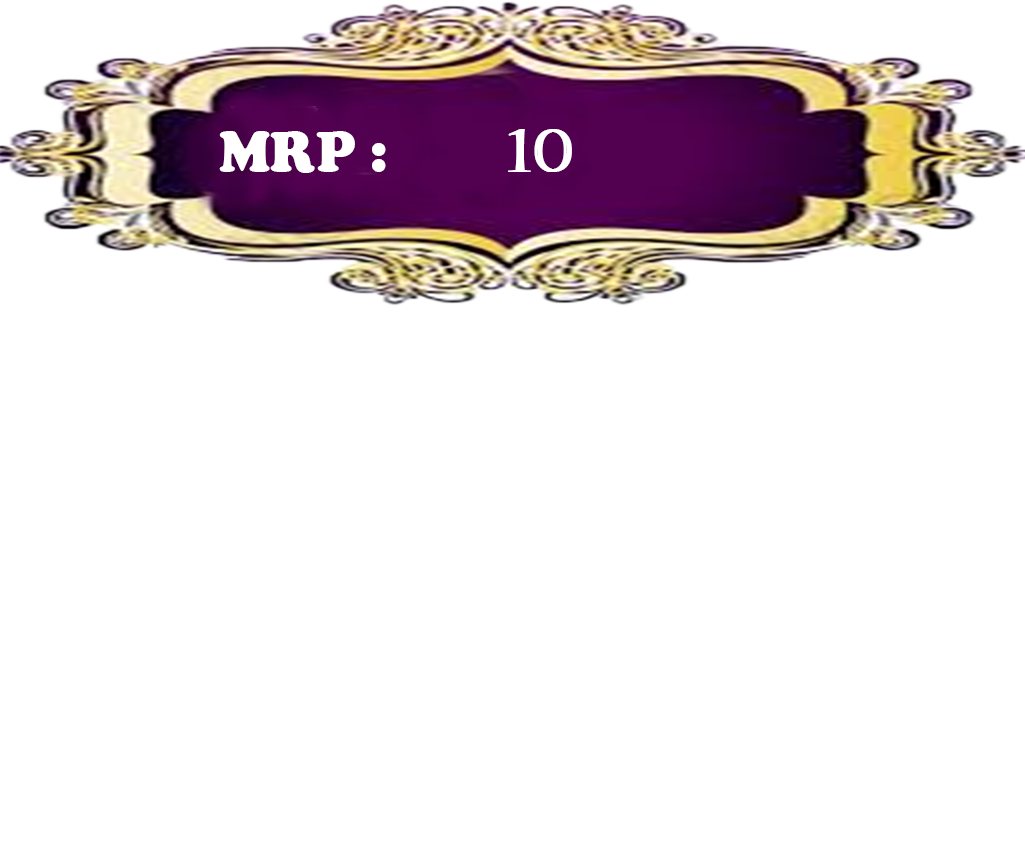
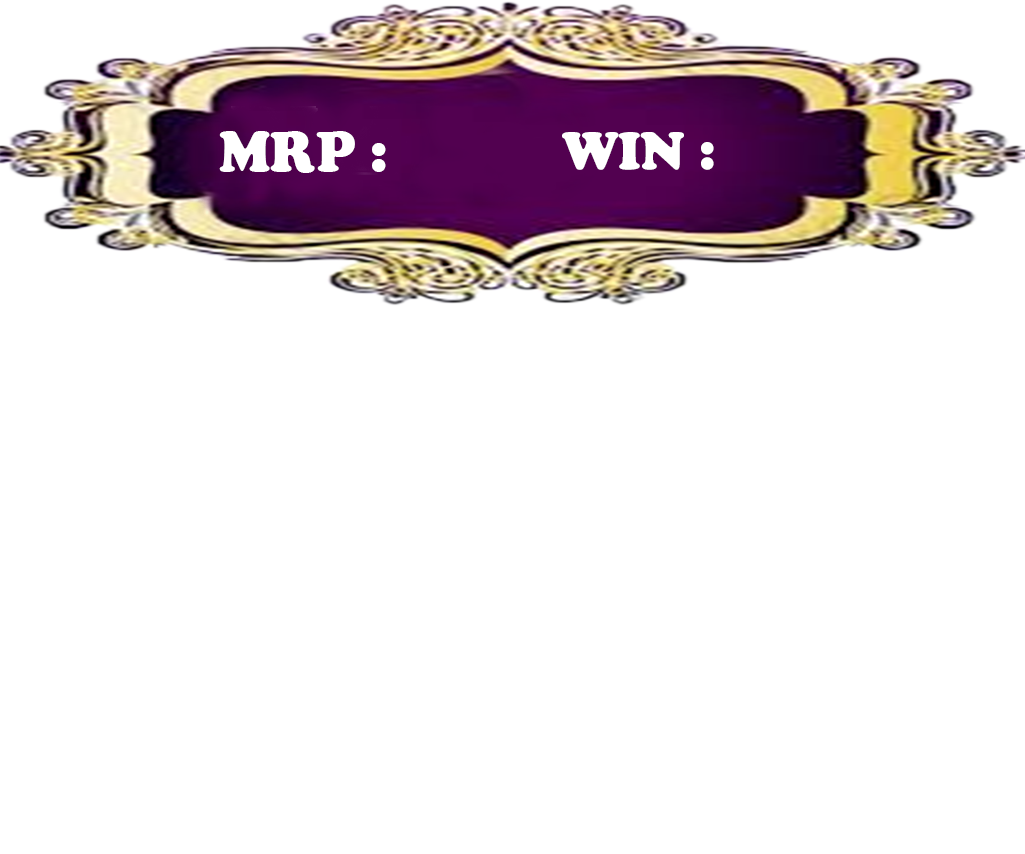
working on result div in trminal component

Changed region(s): [[0.4995, 0.1522, 0.718, 0.2131]]

diff --git a/rajshree_single_angular/src/app/pages/terminal/terminal.component.html b/rajshree_single_angular/src/app/pages/terminal/terminal.component.html
@@ -37,11 +37,11 @@
                 </tr>
               </tbody>
             </table>
-            <div style="padding-top: 6px;">
+            <div style="padding-top: 3px;">
               <div class="left-div" style="padding-top: ; margin-left: 20px; text-align: center;" >
                 <span class="d-flex" style="padding-left: 25px; margin-top: 40px;" ><h4 style="font-weight: bolder; font-size: large; padding-top: 30px; padding-left: 150px;color: white;">{{totalTicketPurchased}}</h4></span>
                </div>
-              <div class=" d-flex mt-" style="height: 50px; border-radius: 10px;margin-top: 10px; ">
+              <div class=" d-flex mt-" style="height: 50px; border-radius: 10px;margin-top: 16px; ">
                 <!-- <button style="font-size: 100%;   width: 50%;height: 145%;  border: 8px solid rgb(255, 255, 255); border-style: double;" class="btn btn-danger ml-1 btn-responsive" [routerLink]="['/terminalReport']">REPORT</button> -->
                 <button (click)="resetMatrixValue()" style="font-size: 100%;  width: 50%;  border: 8px solid rgb(253, 253, 253); border-style: double; height: 145%; font-size: 30px;font-weight: bolder;" class="btn btn-success ml-1 btn-responsive">CLEAR</button>
                 <button class="btn btn-info ml-1 btn-responsive" id="print-button" style="font-size: 100%;   width: 50%;height: 145%;  border: 8px solid rgb(255, 255, 255); border-style: double; font-size: 30px;font-weight: bolder;"
@@ -143,8 +143,8 @@
                   <tr *ngFor="let row of currentDateResult.result.slice(0, currentDateResult.result.length % columnNumber2  === 0 ? currentDateResult.result.length / columnNumber2 : currentDateResult.result.length / columnNumber2 + 1); let idx = index">
                     <td scope="row" class="current-result" colspan="2" *ngFor="let result of currentDateResult.result.slice(idx * columnNumber2, idx * columnNumber2 + columnNumber2)" class="text-center align-middle">
                       <div class=" result-heading current-result" style="font-size: larger;">{{result.end_time.slice(0,5)}}</div>
-                      <div class="bd-highlight current-result">
-                        <span *ngIf="result.single_number!=null"></span>{{result.single_number}}
+                      <div class="bd-highlight current-result" style="min-height: 40px;">
+                        <span *ngIf="result.single_number!=null" style="font-size: 55 !important;">{{result.single_number}}</span>
                         <span *ngIf="result.single_number==null" style="font-size: 25px;">
                           <img src="assets/images/singleStar3.gif" height="40px" alt="">
                         </span>
@@ -166,11 +166,16 @@
             <button style="font-size: 100%;   width: 50%;height: 145%;  border: 8px solid rgb(255, 255, 255); border-style: double; font-size: 30px;font-weight: bolder;" class="btn btn-danger mt-1 btn-responsive" [routerLink]="['/terminalReport']">REPORT</button>
 
           </div> -->
-          <div style="padding-top: 6px;">
-            <div class="right-div" style="padding-top: ; margin-left: 60px" >
-              <span class="d-flex" style="padding-left: 25px; margin-top: 40px;" ><h4 style="font-weight: bolder; font-size: large; padding-top: 30px; padding-left: 150px;color: white;"></h4></span>
+          <div style="padding-top: px;">
+            <div class="right-div" style="padding-top: ; margin-left: 60px;" >
+              <span class="d-flex" style="padding-left: 25px; margin-top: 40px;" >
+                <!-- MRP -->
+                <h4 style="font-weight: bolder; font-size: large; padding-top: 35px; padding-left: 100px;color: white;">10</h4>
+                <!-- WIN -->
+                <h4 style="font-weight: bolder; font-size: large; padding-top: 35px; padding-left: 69px;color: white;">90</h4>
+              </span>
              </div>
-            <div class=" d-flex mt-" style="height: 50px; border-radius: 10px;margin-top: 10px; ">
+            <div class=" d-flex mt-" style="height: 50px; border-radius: 10px;margin-top: 16px; ">
               <button style="font-size: 100%; width: 50%;text-align: center; border: 8px solid rgb(255, 255, 255);border-style: double; height: 145%; font-size: 30px;font-weight: bolder;" class="btn btn-lg  btn-responsive btn-primary" [routerLink]="['/terminalReport']"  >INFO</button>
               <button style="font-size: 100%;   width: 50%;height: 145%;  border: 8px solid rgb(255, 255, 255); border-style: double; font-size: 30px;font-weight: bolder;" class="btn btn-danger ml-1 btn-responsive" [routerLink]="['/terminalReport']">REPORT</button>
             </div>

diff --git a/rajshree_single_angular/src/app/pages/terminal/terminal.component.scss b/rajshree_single_angular/src/app/pages/terminal/terminal.component.scss
@@ -616,7 +616,7 @@ span .mat-fab .mat-button-wrapper {
 
 .current-result{
   color: white;
-  font-size: 16px;
+  font-size: 23px;
 }
 
 .result-heading{
